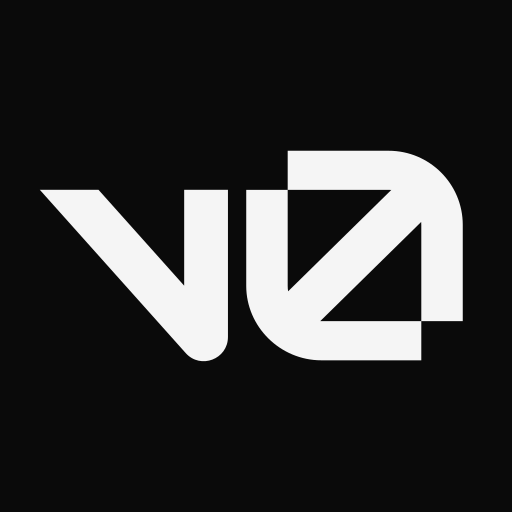
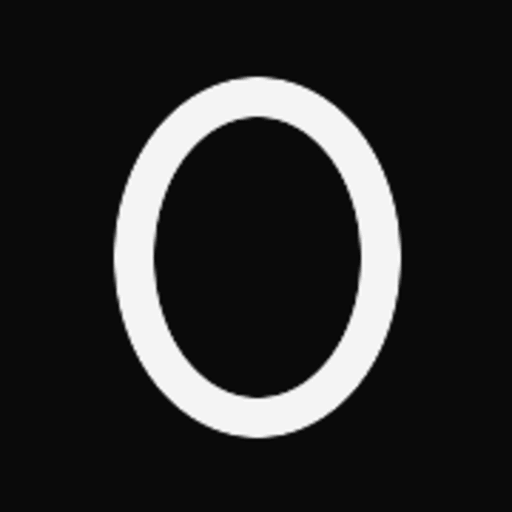
fix(frontend): #1034 polish installed mobile apps
Replace both app marks with a plain O, align the console edge controls,
fill the iOS standalone viewport, and reserve the News status-bar rail.

Changed region(s): [[0.0625, 0.125, 0.9062, 0.875]]

diff --git a/osint-frontend/components/FilterRail.tsx b/osint-frontend/components/FilterRail.tsx
@@ -383,12 +383,11 @@ export function FilterRail({
         //: (#936) — it is a separate control with its own border, so the rail
         //: starts below it rather than sharing an edge and reading as one panel.
         isLeft ? "left-3 top-3" : "right-3 top-14",
-        //: Full height on a phone so the handle, which centres itself inside
-        //: this box, centres on the screen — the same height as the deck's
-        //: handle on the opposite edge. The panel keeps its own margins to
-        //: clear the search bar above and the scrubber's handle below; that is
-        //: the panel's problem, not the handle's.
-        narrow ? "top-3 bottom-[calc(env(safe-area-inset-bottom)+0.75rem)]" : "bottom-3",
+        //: The two phone handles answer to the screen's true midpoint. Safe
+        //: area clearance belongs to panel contents, not the flex box that
+        //: centres this handle; including only the bottom inset shifted this
+        //: arrow above the deck arrow on the opposite edge.
+        narrow ? "inset-y-0" : "bottom-3",
       )}
     >
       {/*: The deck's handle, exactly: it floats on the map *outside* the thing
@@ -442,7 +441,9 @@ export function FilterRail({
             //: the panel never runs off the edge it is docked to. The margins
             //: are what the handle no longer carries: the search bar is above
             //: and the scrubber's handle is below.
-            narrow ? "mt-16 mb-14 w-[min(264px,calc(100vw-4.5rem))]" : "w-[264px]",
+            narrow
+              ? "mt-[calc(env(safe-area-inset-top)+4.25rem)] mb-[calc(env(safe-area-inset-bottom)+3.5rem)] w-[min(264px,calc(100vw-4.5rem))]"
+              : "w-[264px]",
           )}
         >
           <div className="flex flex-col gap-0.5 px-1">

diff --git a/osint-frontend/components/SplitLayout.tsx b/osint-frontend/components/SplitLayout.tsx
@@ -348,11 +348,11 @@ export function SplitLayout() {
   }
 
   return (
-    <main className="relative h-dvh w-full overflow-hidden bg-neutral-950 text-neutral-100">
+    <main className="console-viewport relative w-full overflow-hidden bg-neutral-950 text-neutral-100">
       {/*: No status bar (#936). Eleven always-on chips cost the map the full
           width of the screen to say what three numbers in the corner say, and
           were read once and then ignored. The map gets the whole viewport. */}
-      <div className="relative h-dvh w-full overflow-hidden">
+      <div className="relative h-full w-full overflow-hidden">
         {/*: The corner cluster: whether the view is live, and whether the
             sources are. Two detached controls rather than one bar — the time
             readout has to stay legible without opening anything (#501), and

diff --git a/osint-frontend/app/globals.css b/osint-frontend/app/globals.css
@@ -204,6 +204,20 @@
   }
 }
 
+/* WebKit standalone apps subtract the home-indicator inset from `dvh`, even
+ * with viewport-fit=cover. Regular browser tabs still need the dynamic unit;
+ * installed apps use `vh`, which includes that inset and lets the map paint
+ * behind it while bottom controls continue to respect the safe area. */
+.console-viewport {
+  height: 100dvh;
+}
+
+@media (display-mode: standalone) {
+  .console-viewport {
+    height: 100vh;
+  }
+}
+
 /* Map marker popup: strip maplibre's default white chrome so our card shows through. */
 .osint-popup .maplibregl-popup-content {
   background: transparent !important;

diff --git a/osint-frontend/app/news/page.tsx b/osint-frontend/app/news/page.tsx
@@ -280,7 +280,7 @@ export default function NewsPage() {
 
   return (
     <div className="min-h-dvh bg-neutral-950 text-neutral-100">
-      <header className="sticky top-0 z-20 border-b border-neutral-800/80 bg-neutral-950/85 backdrop-blur-xl">
+      <header className="sticky top-0 z-20 border-b border-neutral-800/80 bg-neutral-950/85 pt-[env(safe-area-inset-top)] backdrop-blur-xl">
         <div className="mx-auto flex h-14 max-w-[100rem] items-center justify-between px-6">
           <div className="flex items-baseline gap-4">
             <span className="font-serif text-[1.15rem] tracking-[-0.01em] text-neutral-50">
